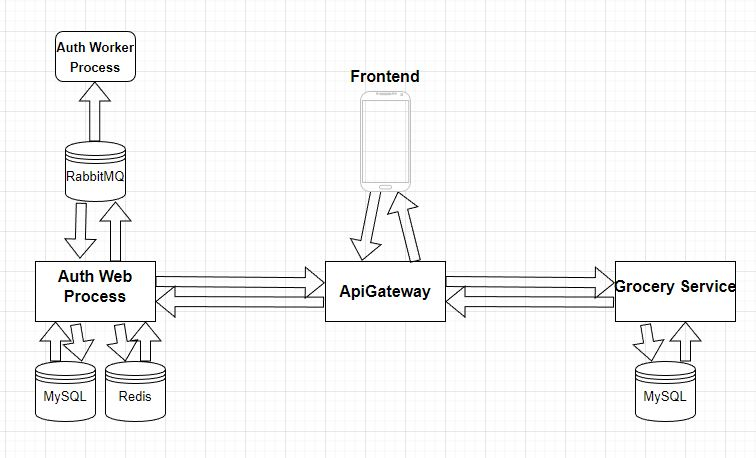
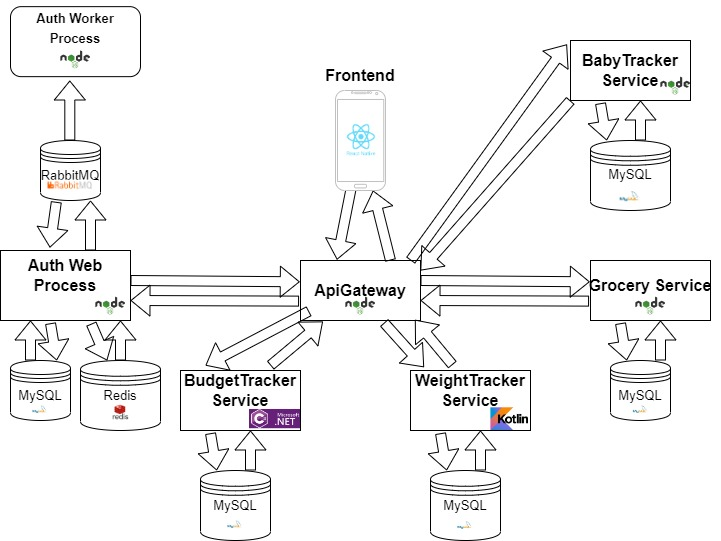
update readme

diff --git a/reactNativeApp/ComponentsV2/LoginPage/LoginPage.js b/reactNativeApp/ComponentsV2/LoginPage/LoginPage.js
@@ -57,23 +57,29 @@ const LoginPage = (props) => {
             setPasswordErrorMessage(a.message)
           }
         })
+
+        return
       }
 
       if (error.response.status == 401) {
         setMainErrorMessage(error.response.data.errorMessage)
-        console.log(error.response.data.errorMessage)
+        return
       }
       if (error.response.status == 403) {
         setMainErrorMessage(error.response.data.errorMessage)
-        console.log(error.response.data.errorMessage)
+        return
       }
       if (error.response.status == 418) {
         setMainErrorMessage(error.response.data.errorMessage)
-        console.log(error.response.data.errorMessage)
+        return
       }
       if (error.response.status == 500) {
         setMainErrorMessage('Server Error!')
+        return
       }
+
+      setMainErrorMessage('Server Error!')
+      return
     }
   }
 

diff --git a/README.md b/README.md
@@ -11,8 +11,8 @@
 - [x] Create BabySleep tracker Backend - Production version has been released! 2022-07-10
 - [ ] Swagger API documentation
 - [ ] Create Weight tracker Backend
-- [ ] Create HomeFinance Frontend
-- [ ] Create HomeFinance Backend
+- [ ] Create BudgetTracker Frontend
+- [ ] Create BudgetTracker Backend
 
 ### Used Technologies:
 
@@ -26,6 +26,9 @@
 <img src="./.github/ReadMe_src/images/react.svg" width="50">
 <img src="./.github/ReadMe_src/images/redux.svg" width="50">
 <img src="./.github/ReadMe_src/images/rabbitmq.svg" width="100" height="20">
+<img src="./.github/ReadMe_src/images/c.svg"  width="50">
+<img src="./.github/ReadMe_src/images/kotlin.svg"  width="50">
+<img src="./.github/ReadMe_src/images/spring.svg" width="50">
 </p>
 
 # Backend
@@ -34,16 +37,22 @@
 
 <p align="left"><img src="./.github/ReadMe_src/images/architecture.jpg" width="550" style="border-radius:5%"></p>
 
-The backend code has been written in NodeJS + TypeScript.
+The backend code has been written in NodeJS + TypeScript, C# and Kotlin.
 
 The used NodeJS framework is Hapi.
 
-## There are three different microservices.
+# Services
+
+## There are six different microservices.
+
+---
 
 ### ApiGateway
 
 - The only exposed service
 - Fordwards the requests between the services and the client side
+
+---
 
 ### Auth web process
 
@@ -54,12 +63,20 @@ The used NodeJS framework is Hapi.
   - Redis
   - Store sessions
 
+---
+
 ### Auth worker process
 
 - Handles the email sendings by the forget password requests
 - Handles the email sendings by the registration requests
 
+---
+
 ### Grocery Service
+
+#### Grocery list with shared groups.
+
+#### It is a basic "To-do-list like" application with backend services.
 
 - Serve the grocery list by the groupId
 - Create new categories
@@ -70,6 +87,50 @@ The used NodeJS framework is Hapi.
 - Delete user groups
 - Database:
   - MySql
+
+---
+
+### BabyTracker Service
+
+#### Main puropose is to Store baby actions's duration like (eat,sleep,walking etc.) and visualize the stored date into specified statistics and charts
+
+- Store baby actions's duration like (eat,sleep,walking etc.)
+- Manage the latest actions (modify,delete)
+- Register and manage children (Save, modify, remove)
+  - **Side Note: For etical reason the "remove child" is hidden by default. In the children manager menu the user should tap the header 7 times before it appears**
+- Parenthsip Manager:
+  - You can invite other user to be a parent of your registerec children via email address
+  - You can manage your sent end received pending invitations as well. (Accept, decline or delete)
+  - One account can only have one partner.
+    - **Poligamy not allowed!**
+  - You can divorce from a partner too in the aplication.
+    - After the divorce the partners got acces only the registered children by the users
+    - **Side note: For etical reason this menu is hidden by default. It will appears after the user tapped the parentship manager menu"s header 7 times**
+
+---
+
+### Weight tracker
+
+#### In development
+
+#### A weight tracker application with backend service. Store and visualize the progress of your wegith gaining/losing journey.
+
+- Save and modify your daily weight.
+- Update or delete your already saved records.
+- Visualize your progress via statistics and charts.
+
+---
+
+### Budget Tracker
+
+#### In development
+
+#### Track all of your expensies and get visualized statistics and charts.
+
+- Create, update and delete categories
+- Create, update and delete records
+- Create, update, delete budget warnings with multiple warning limits.
+- Get statistics about your expensies via lists and charts
 
 ## Docker <img src="./.github/ReadMe_src/images/docker.svg" width="20">
 
